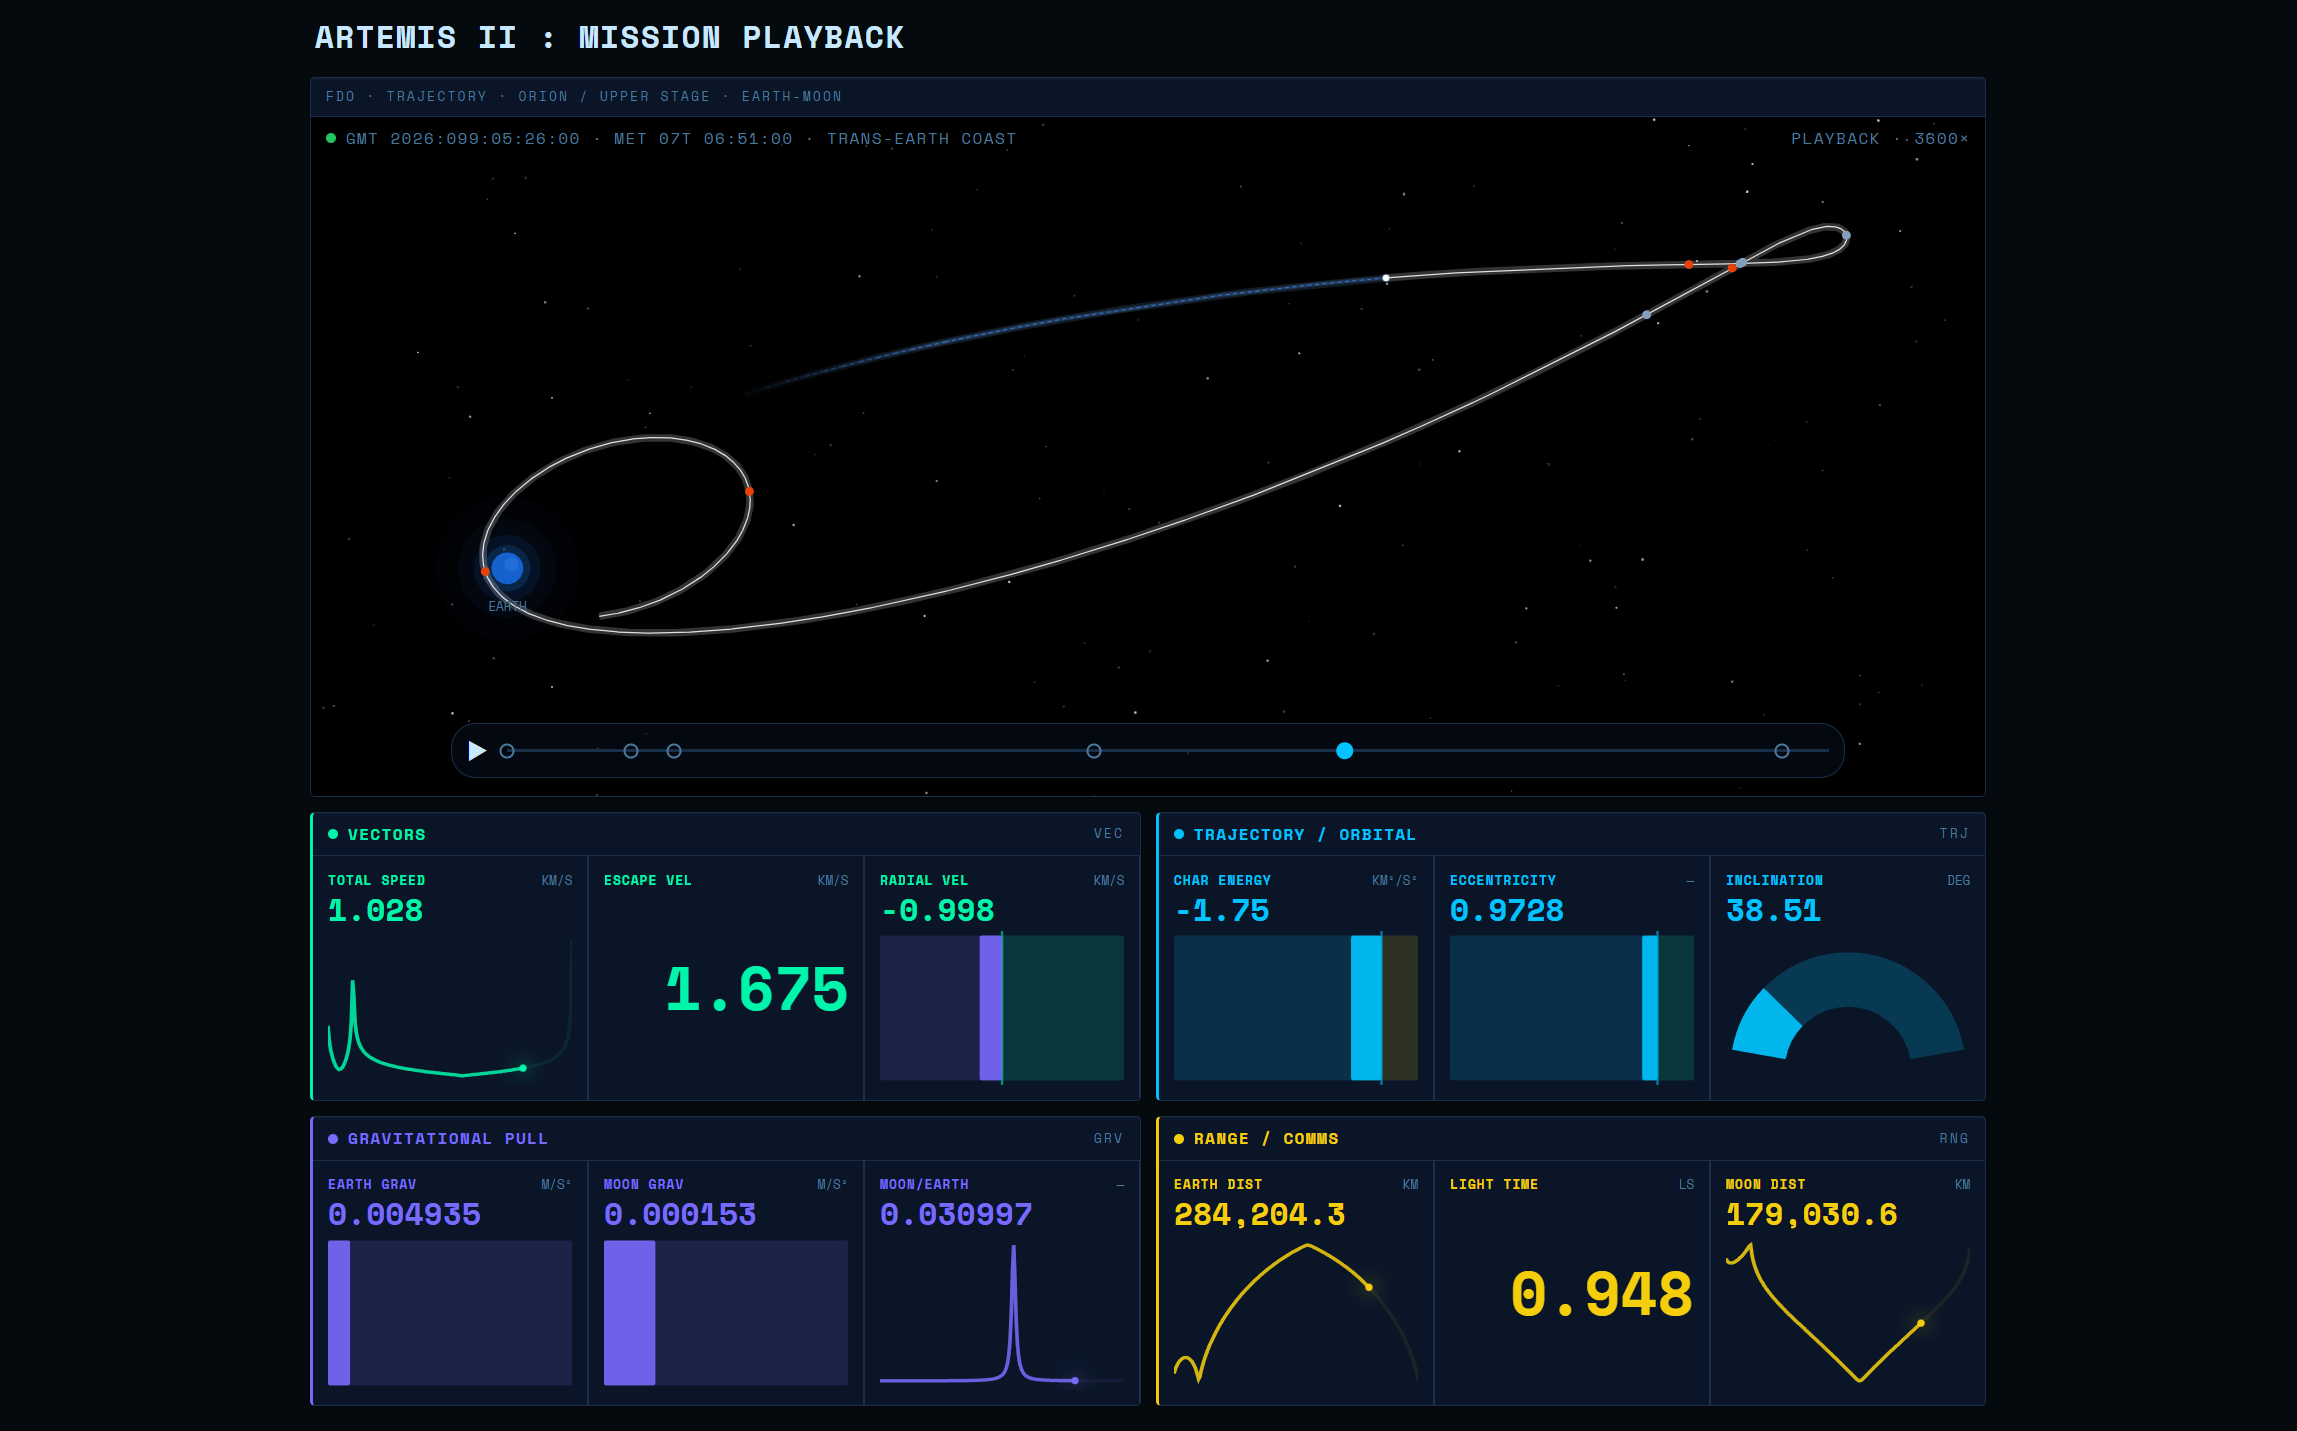
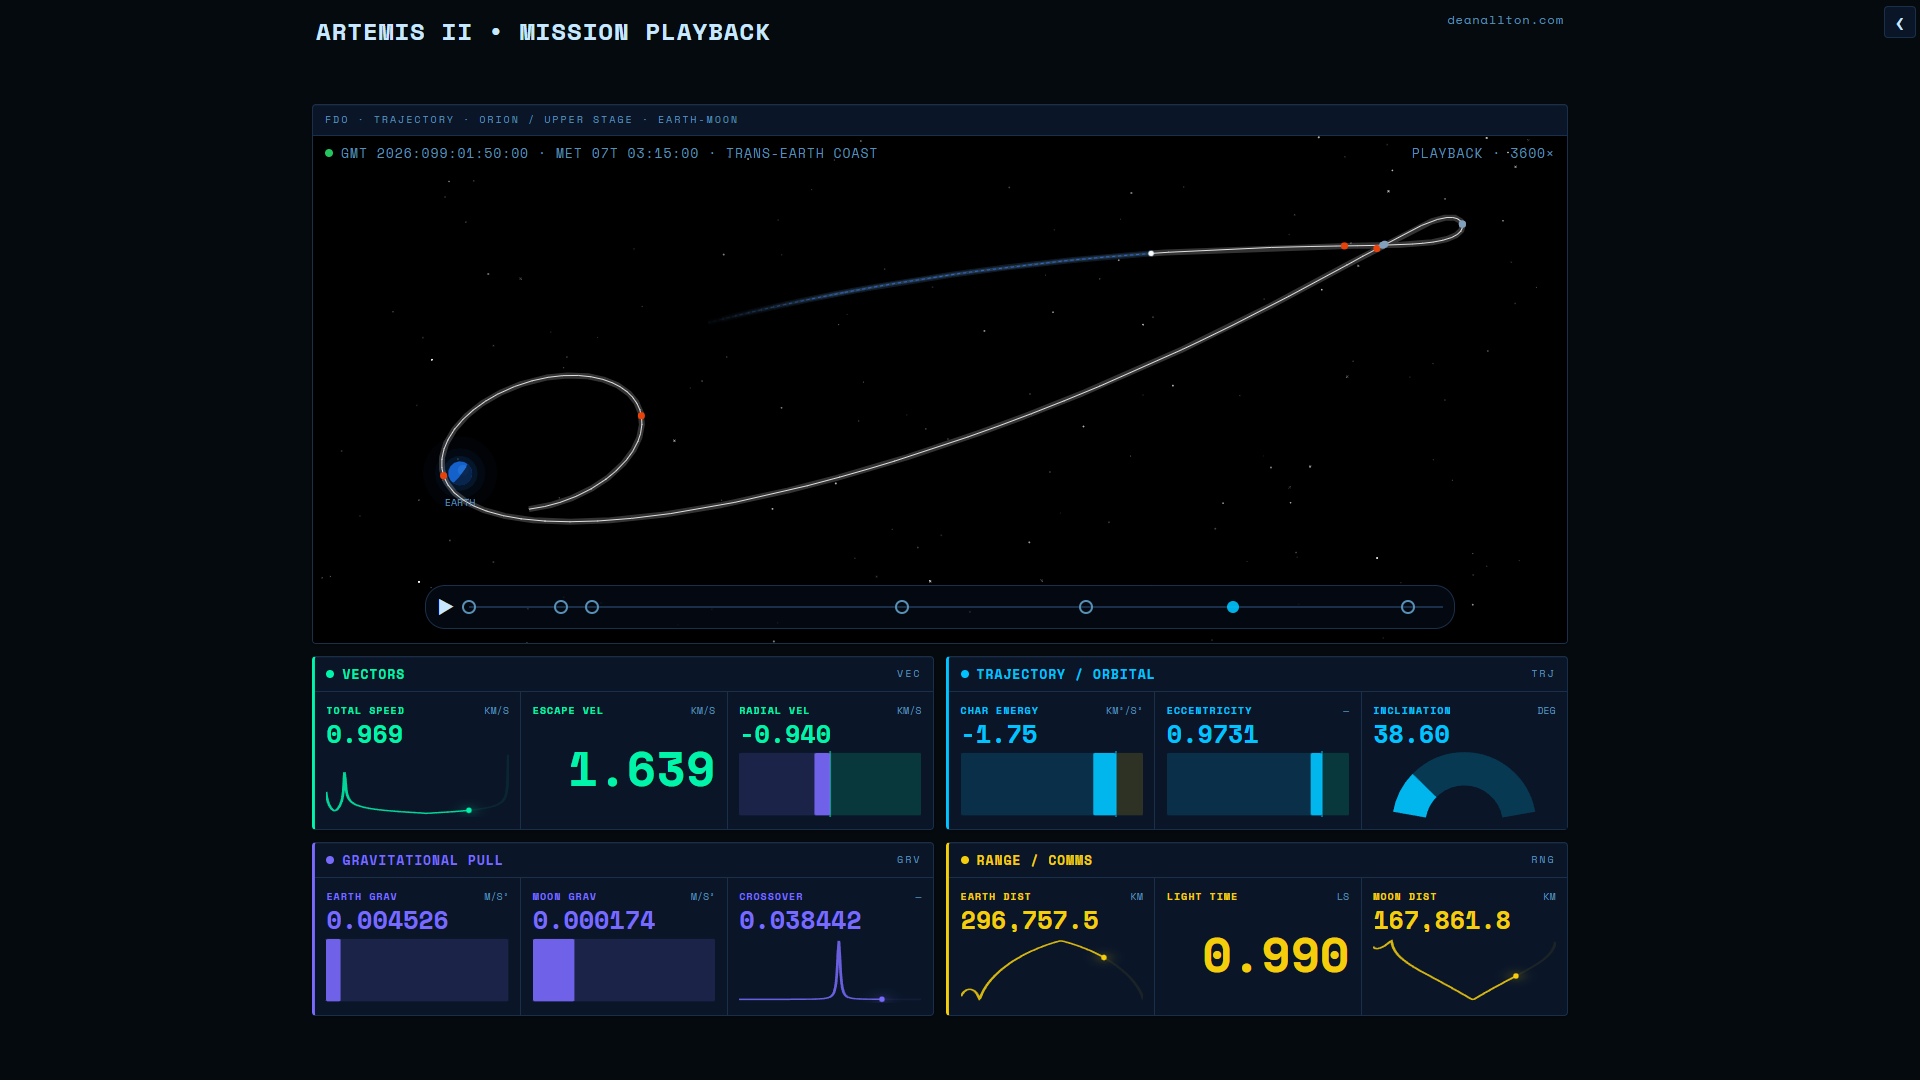
docs: rewrite README

diff --git a/README.md b/README.md
@@ -1,13 +1,14 @@
 # Artemis II • Mission Playback
 
-A mission control-style dashboard visualizing the Artemis II lunar flyby trajectory.
-Built with Python, Dash, Plotly, and DuckDB.
+A mission control-style visualization of the Artemis II lunar flyby trajectory.
+
+**Live:** [artemis-ii-mission.deanallton.com](https://artemis-ii-mission.deanallton.com)
 
 ![Dashboard screenshot](assets/artemis-ii.png)
 
 ---
 
-## What It Is
+## Mission Playback
 
 A two-page web app built around NASA JPL ephemeris data from the Artemis II mission.
 
@@ -18,60 +19,65 @@ videos, and a mission image carousel. An IGNITION button navigates to the dashbo
 trajectory at 3600× speed (1 hour per second), driven by 12,836 state vectors at
 1-minute resolution.
 
----
+### Controls
 
-## Live Demo
+| Control | Effect |
+|---|---|
+| Play / Pause | Starts and pauses the trajectory animation |
+| Restart (↺) | Resets playback to the beginning of the dataset |
+| Phase scrubber | Seeks to any point in the mission; six named phases with click-to-jump |
 
-[artemis-ii-mission.deanallton.com](https://artemis-ii-mission.deanallton.com)
+### Panels
 
----
+**Trajectory** — 2D Earth-Moon plane view of Orion's geocentric path. A 24-hour
+lookahead arc fades over six hours. Phase event markers are drawn along the arc.
 
-## Mission window
+**Telemetry** — Twelve KPI tiles updating each playback frame. Tile types include
+sparklines (altitude, speed, acceleration), bar and bidirectional bar gauges
+(gravitational accelerations, angular rates), dials, and static readouts. Each tile
+pulls from a DuckDB view over the preloaded state vector dataset.
+
+### Mission Window
 
 `2026-Apr-02 01:59 UTC` → `2026-Apr-10 23:54 UTC`
 
-The dataset does not begin at launch. JPL Horizons only has trajectory data for Orion once DSN ground stations acquired the signal after orbital insertion - approximately T+3.5 hours after SLS liftoff. The final ~13 minutes of the mission (reentry through splashdown) are also absent: the plasma sheath surrounding the capsule during atmospheric reentry blocks all radio communication, cutting off tracking data before the vehicle reaches Earth's surface.
+The dataset opens approximately T+3.5 hours after SLS liftoff (DSN acquisition
+delay) and ends ~13 minutes before splashdown (reentry plasma blackout). Both gaps
+are unresolvable from the Horizons source.
+
+---
+
+## Documentation
+
+**[Data Dictionary](artemis-ii-mission.deanallton.com/docs/Data_Dictionary.html)** — Schema reference: all tables,
+fields, coordinate frames, units, and known data gaps (DSN acquisition delay,
+reentry blackout).
+
+**[Metrics & Queries](artemis-ii-mission.deanallton.com/docs/Metrics_and_Queries.html)** — Derived metric formulas,
+physical constants, and the full SQL query cookbook. Covers kinematics, orbital
+mechanics, Earth-Moon geometry, and gravitational accelerations.
 
 ---
 
 ## Setup
 
 ```bash
-# Clone and create virtual environment
 git clone https://github.com/HelioCentrik/artemis-ii-mission-playback
 cd artemis-ii-mission-playback
 python -m venv .venv
 source .venv/bin/activate      # Windows: .venv\Scripts\activate
-
-# Install dependencies
 pip install -r requirements.txt
-
-# Launch the dashboard
 python main.py
 ```
 
-Then open `http://127.0.0.1:8050`.
+Open `http://127.0.0.1:8050`.
 
-> The database (`data/artemis2.duckdb`) is included in the repo — no build step required. To rebuild it from JPL Horizons, run `python scripts/init_db.py`.
-
-Then open `http://127.0.0.1:8050`.
+> The database (`data/artemis2.duckdb`) is included in the repo — no build step
+> required. To rebuild from JPL Horizons, run `python scripts/init_db.py`.
 
 ---
 
 ## Deployment
-
-Serve with Gunicorn:
-
-```bash
-pip install gunicorn
-gunicorn main:server --workers 2 --bind 0.0.0.0:8050 --timeout 120
-```
-
-No environment variables are required. The DuckDB file is committed to the repo and loaded into memory at startup — there are no external API dependencies at runtime.
-
-The live demo## Deployment
-
-Serve with Gunicorn:
 
 ```bash
 pip install gunicorn gevent
@@ -83,67 +89,46 @@ gunicorn main:server \
   --bind 0.0.0.0:8051
 ```
 
-The live demo runs behind a Cloudflare tunnel on a self-hosted Linux server, managed as a systemd service. Any reverse proxy or tunnel setup that can forward HTTP to the Gunicorn port will work.
-
-Gevent async workers are required — the default sync worker class serialises concurrent video requests on the home page, causing sequential load times. runs behind a Cloudflare tunnel on a self-hosted Linux server, managed as a systemd service. Any reverse proxy or tunnel setup that can forward HTTP to the Gunicorn port will work.
+Gevent async workers are required — the default sync worker serialises concurrent
+video requests on the home page. The live demo runs behind a Cloudflare tunnel on a
+self-hosted Linux server as a systemd service.
 
 ---
 
 ## Project Structure
-pages/            Page modules — landing page (/) and mission playback dashboard (/playback/)
-app/              Config, data layer, DB singleton, phase detection, telemetry
-assets/           CSS, clientside JS (playback hot path, home carousel, resize handler)
-components/       Reusable Dash layout components — header, scrubber, panels
-viz/              Figure builders — trajectory viz, KPI tiles, sparklines
-scripts/          Horizons client, DB init, validation probes
-main.py           Entrypoint — imports pages, exposes server for Gunicorn
+
+```
+pages/       Page modules — landing page (/) and mission playback (/playback/)
+app/         Config, data layer, DB singleton, phase detection, telemetry
+assets/      CSS, clientside JS (playback engine, home carousel, resize handler)
+components/  Reusable Dash layout components — header, scrubber, panels
+viz/         Figure builders — trajectory viz, KPI tiles, sparklines
+scripts/     Horizons client, DB init, validation probes
+main.py      Entrypoint — imports pages, exposes server for Gunicorn
+```
 
 ---
 
 ## Stack
 
-| Layer | Technology                      |
-|---|---------------------------------|
-| Language | Python 3.13+                    |
-| Dashboard | Dash (Plotly)                   |
-| Data store | DuckDB                          |
-| Ephemeris | JPL Horizons REST API           |
-| Visualization | Plotly (3D scatter, animations) |
+| Layer | Technology |
+|---|---|
+| Language | Python 3.13+ |
+| Dashboard | Dash (Plotly) |
+| Data store | DuckDB |
+| Ephemeris | JPL Horizons REST API |
+| Visualization | Plotly (scatter, animations) |
 
 ---
 
-## Data Source
+## Data & Attribution
 
-Ephemeris data retrieved from the [JPL Horizons REST API](https://ssd.jpl.nasa.gov/horizons/).
+**Ephemeris data** — NASA Jet Propulsion Laboratory, [JPL Horizons REST API](https://ssd.jpl.nasa.gov/api/horizons.api). State vectors and osculating orbital elements at 1-minute resolution.
 
-| Object | Horizons ID | Type |
-|---|---|---|
-| Orion spacecraft (Artemis II) | `-1024` | VECTORS + ELEMENTS |
-| Moon | `301` | VECTORS |
-| Sun | `10` | VECTORS |
+| Object | Horizons ID |
+|---|---|
+| Orion spacecraft (Artemis II) | `-1024` |
+| Moon | `301` |
+| Sun | `10` |
 
-All data is geocentric ICRF, 1-minute step size.
-
----
-
-## Data Pipeline
-
-```
-JPL Horizons API
-      │
-      ▼
-scripts/fetch_horizons.py   ← pulls raw trajectory CSV
-      │
-      ▼
-scripts/init_db.py          ← parses and writes to DuckDB
-      │
-      ▼
-data/artemis2.duckdb        ← orion_trajectory table (12,836 rows)
-```
-
-------
-
-## Attribution
-
-Trajectory data provided by the NASA Jet Propulsion Laboratory Solar System Dynamics
-Group via the [JPL Horizons System](https://ssd.jpl.nasa.gov/horizons/).
+**Mission media** — NASA. Crew portraits, launch, and mission photography via [NASA Image and Video Library](https://images.nasa.gov). Launch video via NASA. Recovery video courtesy of Reid Wiseman via [Instagram](https://www.instagram.com/astroreid).
